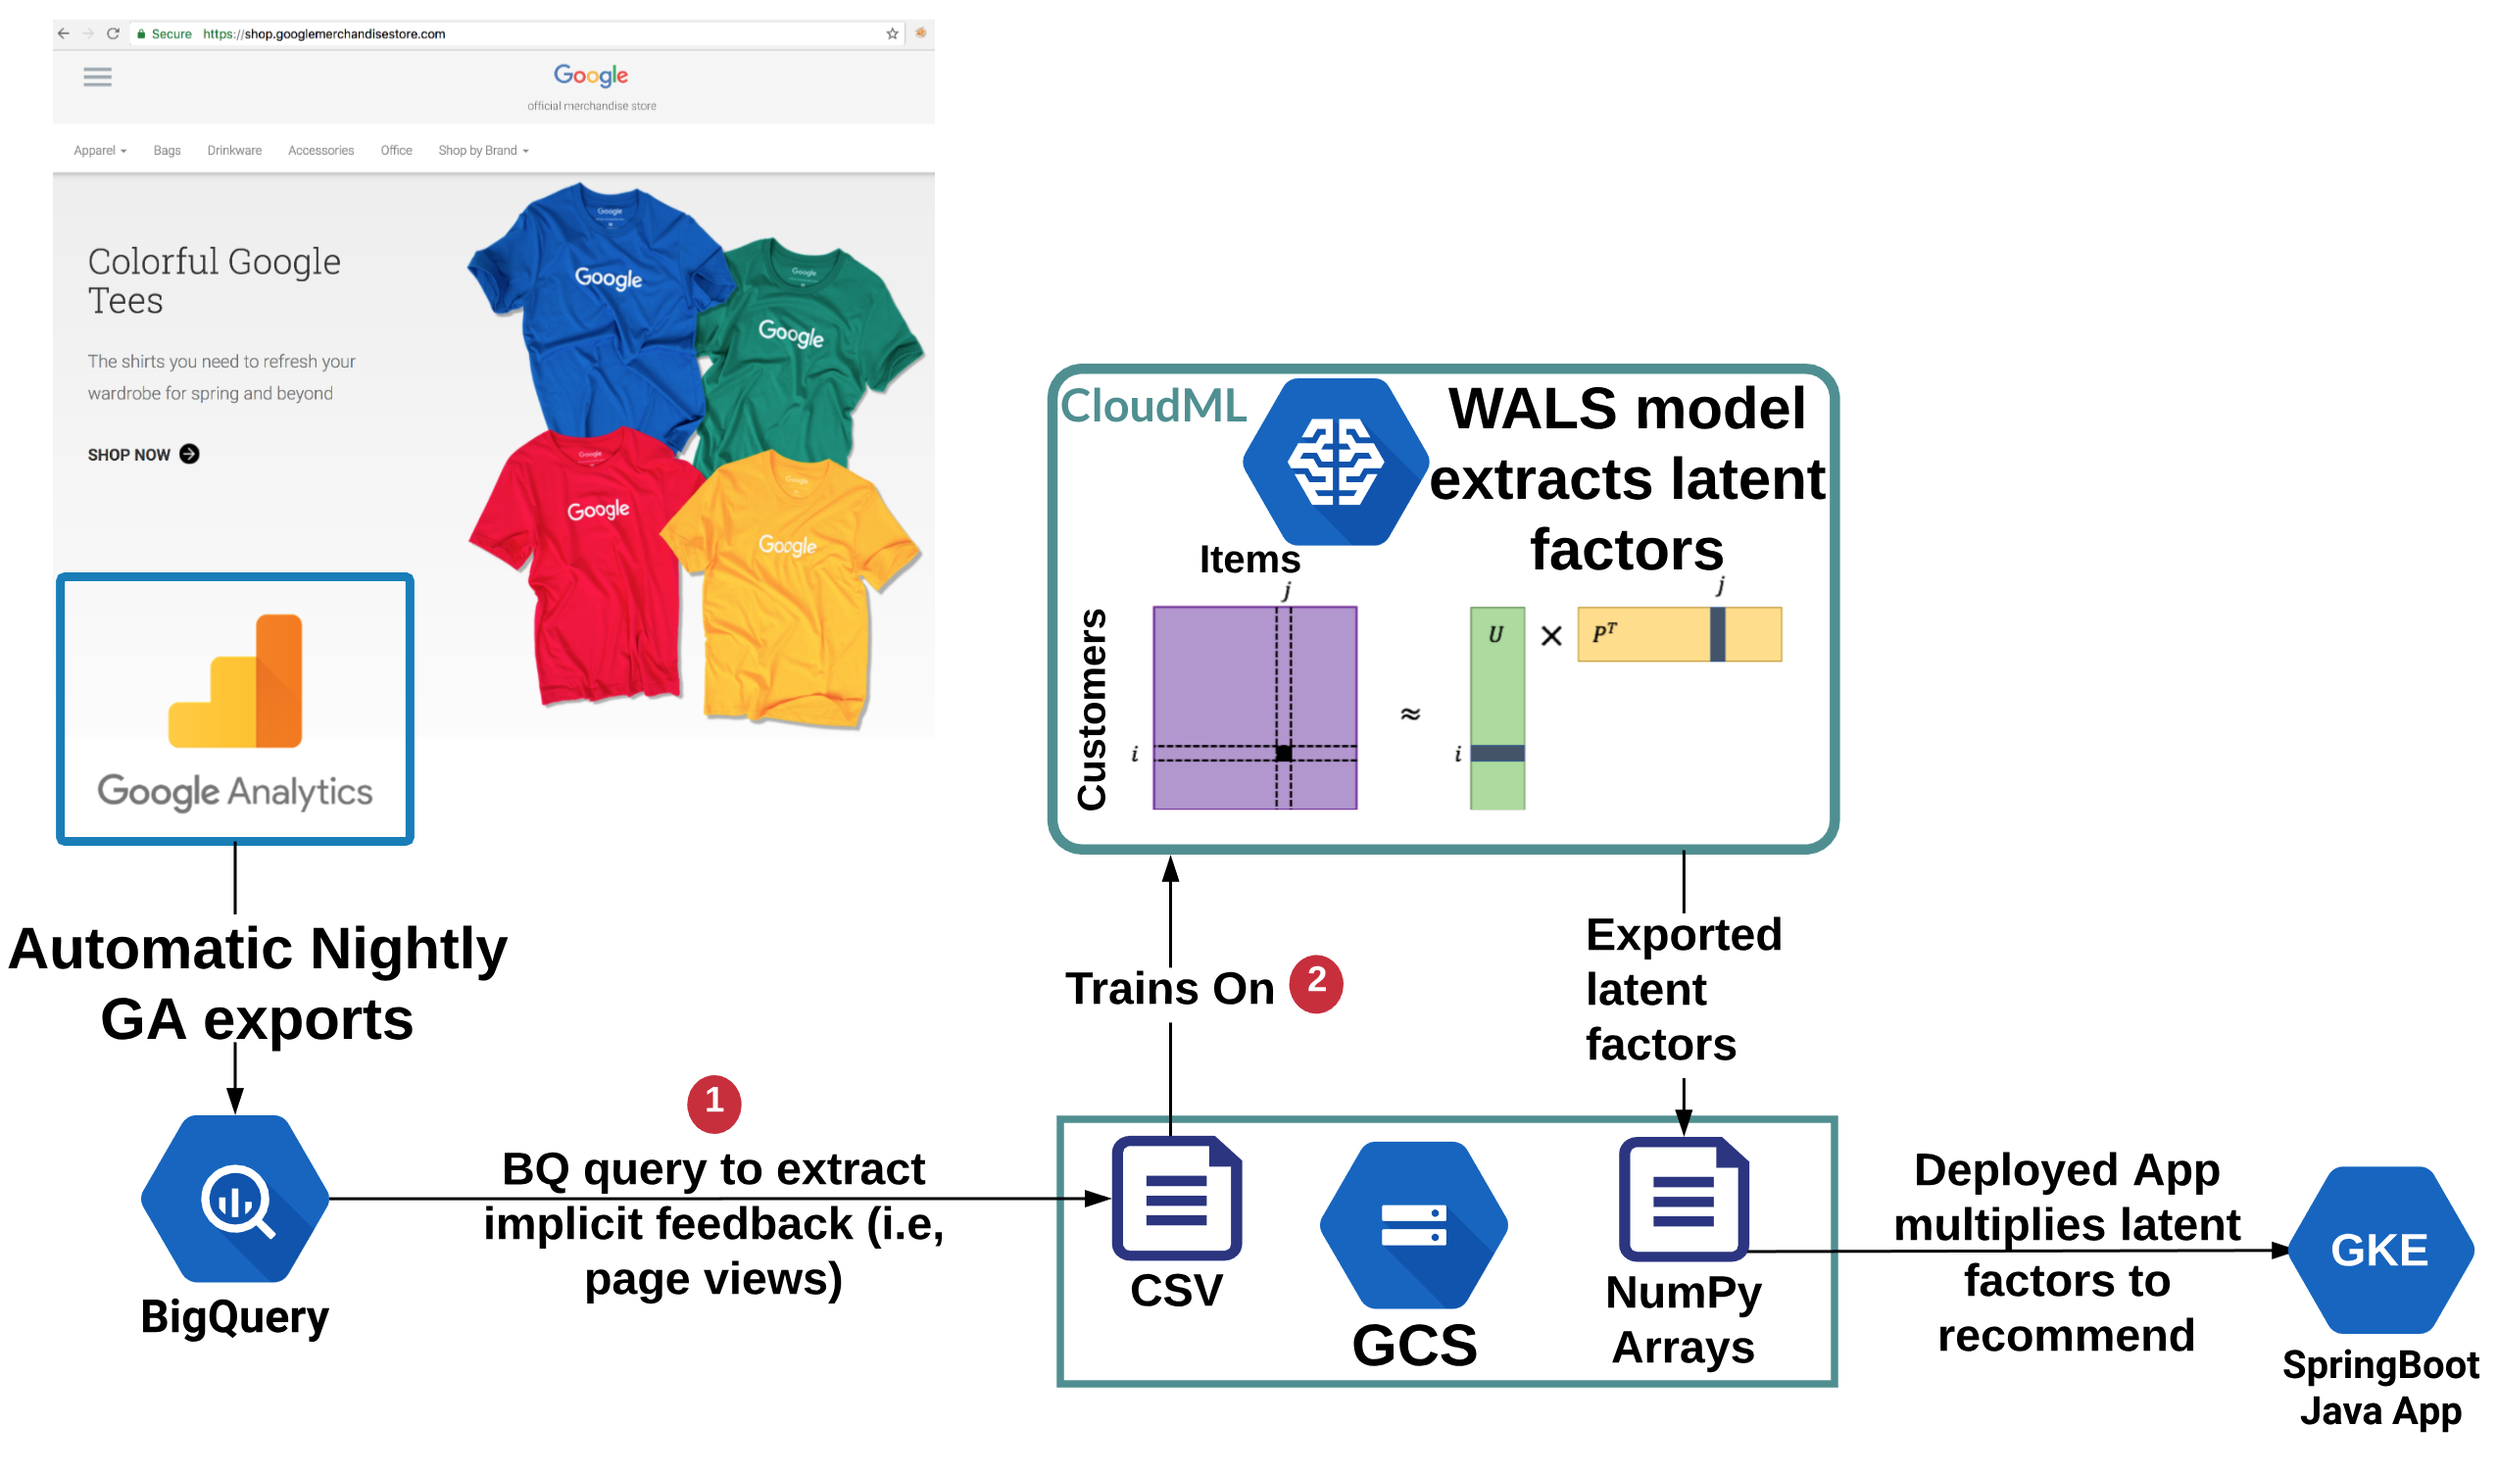
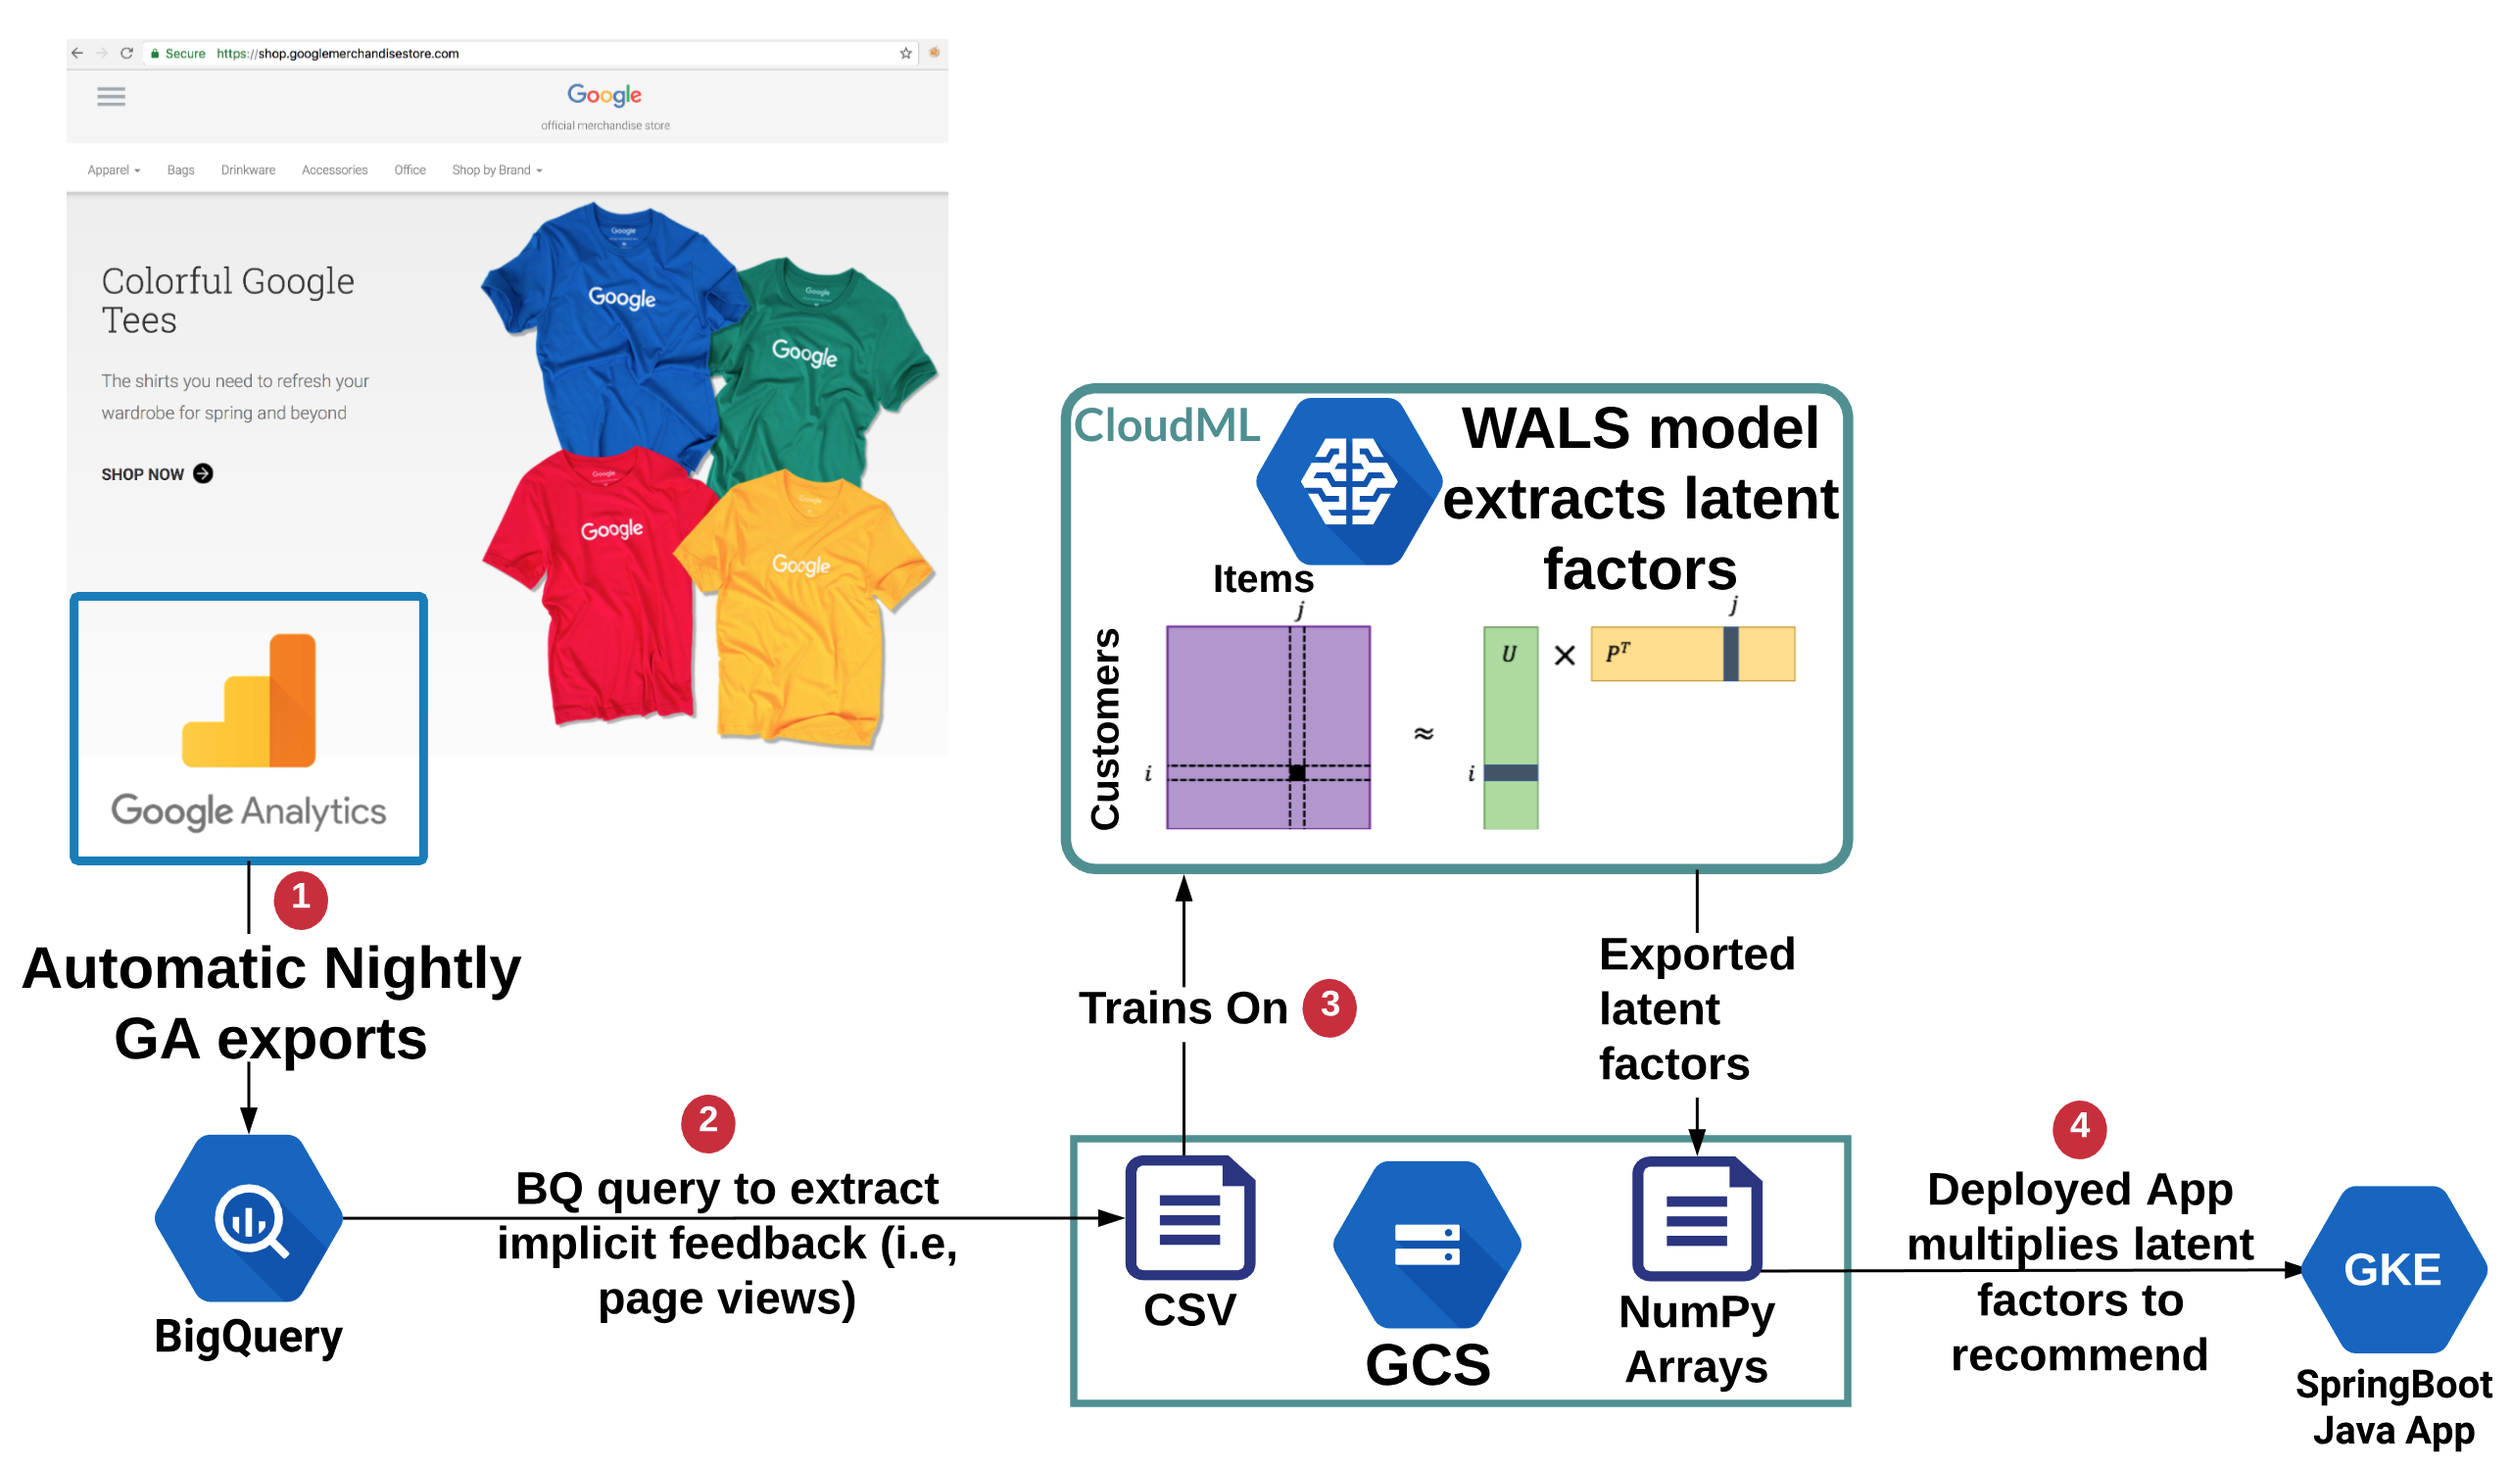
More Recommeder Readme changes

diff --git a/recommender/README.md b/recommender/README.md
@@ -1,15 +1,19 @@
 # Recommendations on GCP with TensorFlow and WALS
 
-This README documents the process to build an end-to-end ecommerce recommender without spinning up any infrastructure, a completely managed solution using BigQuery & Cloud MLE.  The ingestion and training aspects of the build are documented in this README while the model deploymennt is documented in the `recommender_svc/java` README
+This README documents the process to build an end-to-end ecommerce recommender without spinning up any infrastructure, a completely managed solution using BigQuery & Cloud MLE.  The ingestion and training aspects of the build are documented in this README while the associated prediction service development & deployment is documented in the `recommender_svc/java` README
 
 
 
 ## High Level Architecture
 ![image](assets/architecture.png)
 
-<img src="assets/one.png" width="30"/> **GA360-BQ Export**: This README documents the process to build an end-to-end ecommerce recommender without spinning up any infrastructure, a completely managed solution using BigQuery & Cloud MLE.  The ingestion and training aspects of the build are documented in this README while the model deploymennt is documented in the `recommender_svc/java` README 
+<img src="assets/one.png" width="33"/> **GA360-BQ Export**: [Google's Own Merchandise Store](https://shop.googlemerchandisestore.com/) has been instrumented with Google Analytics 360 (GA360) like many ecommerce sites and GA360 automatically provides a nightly export to BigQuery of the raw, hit-level granularity data that is not available in just Google Analytcs. 
 
-<img src="assets/one.png" width="30"/> **GA360-BQ Export**: This README documents the process to build an end-to-end ecommerce recommender without spinning up any infrastructure, a completely managed solution using BigQuery & Cloud MLE.  The ingestion and training aspects of the build are documented in this README while the model deploymennt is documented in the `recommender_svc/java` README 
+<img src="assets/two.png" width="35"/> **Ingest Implicit Feedback**: The BQ schema for GA360 is robust with complex nested structures, but we issue a fairly simple query to extract the imlicit feedback as a CSV that will form the training data for our recommender.  
+
+<img src="assets/three.png" width="35"/> **Model Training**: From Cloud Shell, we issue a single command that packages & zips our Python/Tensorflow trainer and starts it as a job on Cloud ML.  This job in turn consumes the implicit feedback CSV stored in GCS, uses Weighted Alternating Least Squares (WALS) model to compute the latent factors and store them back in GCS.
+
+<img src="assets/four.png" width="35"/> **Prediction Service**: A SpringBoog Java application was developed to implement the prediction service that uses the derived latent factores to generate recommendations for a given user.  This process is documented in the README in `recommender_svc/java`
 
 ## Prerequisites
 
@@ -17,7 +21,7 @@ This README documents the process to build an end-to-end ecommerce recommender w
 * `git clone https://github.com/precocity/gcp-retail-workshop-2018.git`
 * `cd gcp-retail-workshop-2018/recommender`
 
-## Extract Data from BigQuery
+## <img src="assets/two.png" width="40"/> Extract Data from BigQuery
 
 
 1. **Prepare DataSet/Bucket:** Create a GCS bucket `$BUCKET` & BQ datset `GA360_MerchStore` to store the implicit feedback we build from BQ: 
@@ -56,7 +60,7 @@ This README documents the process to build an end-to-end ecommerce recommender w
 	bq extract GA360_MerchStore.implicit_feedback $TRAIN_FILE
 	```	
 		
-## Train Recommender using Cloud ML Engine
+## <img src="assets/three.png" width="40"/> Train Recommender using Cloud ML Engine
 Now that the training file has been prepared and stored in GCS, we're ready to train our recommender.  The recommender is located `wals_ml_engine` directory. It takes 5-10 mins to train so let's fire it off first and then we'll walkthrough the details while it runs.
 
 
@@ -98,6 +102,8 @@ Note, that R is very sparse and most of the *X<sub>ui</sub>* are missing and obv
 ![image](assets/factors.png)
 
 # Cloud MLE Submission
+
+As graphically depicted below, the cloud MLE command prepares a python trainer package using the model, task, & other .py files in the trainer directory.  It then zips it up and starts it on Cloud MLE.  The output of the training are the latent factors stored in `$BUCKET`
 
 ![image](assets/mle.png)
 		 
